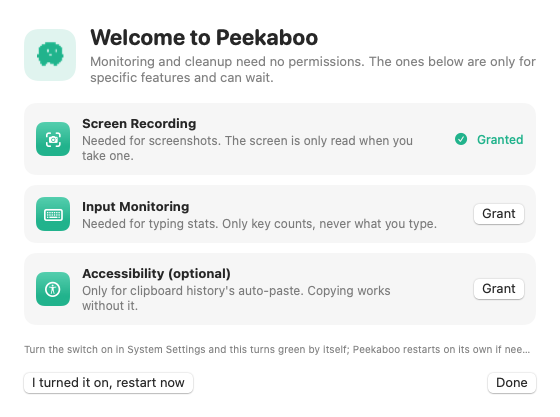
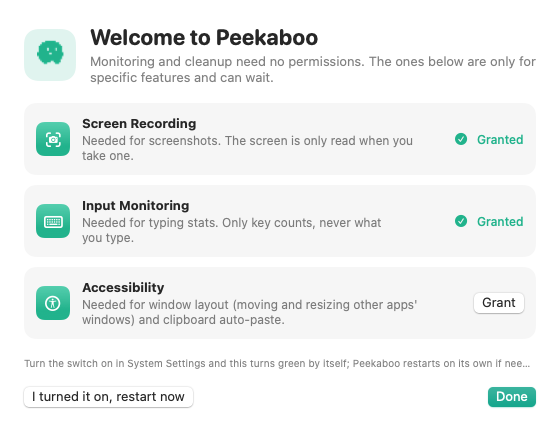
README and screenshots for window layout

diff --git a/README.md b/README.md
@@ -35,6 +35,7 @@ macOS 14+ · Windows 10/11 · 免费开源 Free & open source (MIT)
 | **网络** | 每个应用的上传 / 下载速率和流量（Windows 显示每个应用的连接） |
 | **截图** | 自定义快捷键，自动识别窗口，矩形 / 箭头 / 画笔 / 文字 / 马赛克（涂抹或框选，方块或模糊），**识字（OCR）**，复制、保存或贴在屏幕上 |
 | **剪贴板历史** | 复制过的文字、图片、链接、文件都留着，⌥⇧V（Windows Alt+Shift+V）随时调出搜索；自动跳过密码管理器的内容 |
+| **分屏** | 类似 Magnet：⌃⌥ + 方向键 / 字母（Windows Ctrl+Alt）把窗口摆到半屏、四分之一、三分之一、铺满、居中、换屏；Mac 上把窗口拖到屏幕边缘也能自动分屏 |
 | **打字统计** | 每天按键数、每小时分布、键盘热力图、最常用的键和应用。**只计数，从不记录内容** |
 | **桌面小组件** | 常驻桌面的小浮窗：CPU、内存、磁盘、网速、电池、今日打字 |
 | **其他** | 中英文界面、深色 / 浅色、8 种主题色、提醒、开机自启、应用内一键更新 |
@@ -110,18 +111,26 @@ macOS 14+ · Windows 10/11 · 免费开源 Free & open source (MIT)
 - 「剪贴板」页可以搜索、按类型筛选、置顶常用内容。密码管理器标记为「不要记录」的内容会自动跳过；历史只存在本机。
 - 打开「选中后自动粘贴」后，选中会直接粘贴到当前应用（macOS 需要「辅助功能」权限）。
 
-**8. 重复文件 / 卸载应用**
+**8. 分屏**
+- 默认快捷键和 Magnet 一样：⌃⌥←/→/↑/↓ 半屏，⌃⌥U/I/J/K 四个角，⌃⌥D/F/G 三分之一，⌃⌥E/T 三分之二，⌃⌥↩ 铺满，⌃⌥C 居中，⌃⌥⌫ 还原，⌃⌥⌘←/→ 移到另一块屏幕。Windows 把 ⌃⌥ 换成 Ctrl+Alt，换屏是 Ctrl+Alt+Win+←/→。
+- 「分屏」页可以改每个快捷键；点任意布局会把刚才在用的窗口摆过去。
+- Mac 上拖动窗口到屏幕边缘会出现预览：左右边缘半屏，四个角四分之一，顶部铺满，底部三分之一；把分屏后的窗口拖走会恢复原来的大小。Windows 自带拖动分屏，所以 Windows 版只加了快捷键和三分之一布局。
+- macOS 需要「辅助功能」权限，开启后立即生效，不用重启。
+
+<img src="docs/screenshots/mac-zh/15-windows.png" width="640" alt="分屏">
+
+**9. 重复文件 / 卸载应用**
 - 「重复文件」扫描下载、文稿、桌面、图片等目录，找出完全相同的文件（逐字节校验）和相似图片。每组至少保留一份，不可能全删。
 - 「卸载应用」列出已安装的应用，选中后会找出它在 Library（Windows 是 AppData / ProgramData）里留下的数据。Mac 上一并移到废纸篓；Windows 会先运行应用自己的卸载程序，再清理残留。
 
-**9. 电池 / 网络 / 桌面小组件**
+**10. 电池 / 网络 / 桌面小组件**
 - 「电池」显示健康度、循环次数和 7 天电量曲线（台式机没有这一项）。
 - 「网络」显示每个应用的实时网速和累计流量（只在打开这个页面时采样）。
 - 设置 › 桌面小组件 打开一个常驻桌面的小浮窗，可以拖动、选显示内容、调透明度。
 
 <img src="docs/screenshots/mac-zh/11-battery.png" width="640" alt="电池">
 
-**10. 设置**
+**11. 设置**
 - 语言（跟随系统 / 简体中文 / English）、主题色、动画图标、菜单栏内容、提醒阈值、清理规则、项目目录、白名单。
 
 ### 隐私
@@ -188,6 +197,7 @@ dotnet publish -c Release -r win-x64 --self-contained true -p:PublishSingleFile=
 | **Network** | Per-app upload / download rates and totals (per-app connections on Windows) |
 | **Screenshot** | Custom hotkey, window snapping, rectangle / arrow / pen / text / mosaic (brush or box, pixelate or blur), **OCR**, copy, save or pin on screen |
 | **Clipboard history** | Everything you copy, searchable with ⌥⇧V (Windows Alt+Shift+V); password-manager content is skipped |
+| **Window layout** | Magnet-style: ⌃⌥ + arrow / letter (Windows Ctrl+Alt) puts a window in a half, quarter, third, full screen, center or the next display; on Mac, dragging a window to a screen edge snaps it too |
 | **Typing stats** | Keystrokes per day, per hour, keyboard heatmap, top keys and apps. **Counts only, never what you type** |
 | **Desktop widget** | A small floating panel with CPU, memory, disk, network, battery and keystrokes today |
 | **More** | Chinese / English UI, light / dark, 8 theme colours, alerts, launch at login, in-app updates |
@@ -212,6 +222,7 @@ Download from [Releases](https://github.com/zephyrusguooo028/Peekaboo/releases/l
 - **Clean up** — scanning never deletes anything. Recommended items are pre-selected; everything goes to the Trash by default. "Free up memory and CPU" quits selected apps like ⌘Q, never forced. Only your home folder is touched; protected and whitelisted locations are always skipped.
 - **Screenshot** — default **⌥⇧A** (Windows **Alt+Shift+A**), re-recordable on the Screenshot page. Row 1 holds tools, row 2 the selected tool's options. Return / double-click copies, ⌘Z / Ctrl+Z undoes, Esc cancels, right-click re-selects. Pins can be dragged, zoomed with the wheel and closed with a double-click. macOS asks for Screen Recording permission the first time.
 - **Clipboard** — ⌥⇧V / Alt+Shift+V opens the quick picker; the Clipboard page searches, filters and pins. Optional auto-paste needs Accessibility on macOS.
+- **Window layout** — Magnet's default shortcuts: ⌃⌥←/→/↑/↓ halves, ⌃⌥U/I/J/K quarters, ⌃⌥D/F/G thirds, ⌃⌥E/T two thirds, ⌃⌥↩ maximize, ⌃⌥C center, ⌃⌥⌫ restore, ⌃⌥⌘←/→ other display (Windows: Ctrl+Alt, and Ctrl+Alt+Win+←/→). Every shortcut can be changed on the Window layout page. On Mac, drag a window to an edge (halves), corner (quarters), top (maximize) or bottom (thirds); Windows already snaps on drag. macOS needs Accessibility, which works without a restart.
 - **Duplicates / Uninstall** — exact duplicates are verified byte-for-byte and one copy per group is always kept; the uninstaller also removes the app's leftovers (Windows runs the app's own uninstaller first).
 - **Battery / Network / Widget** — battery health and history, per-app network traffic (sampled only while the page is open), and a floating desktop widget from Settings.
 - **Typing** — off by default. macOS needs Input Monitoring permission (System Settings › Privacy & Security › Input Monitoring). Only per-key and per-app counts are stored, never key order.
